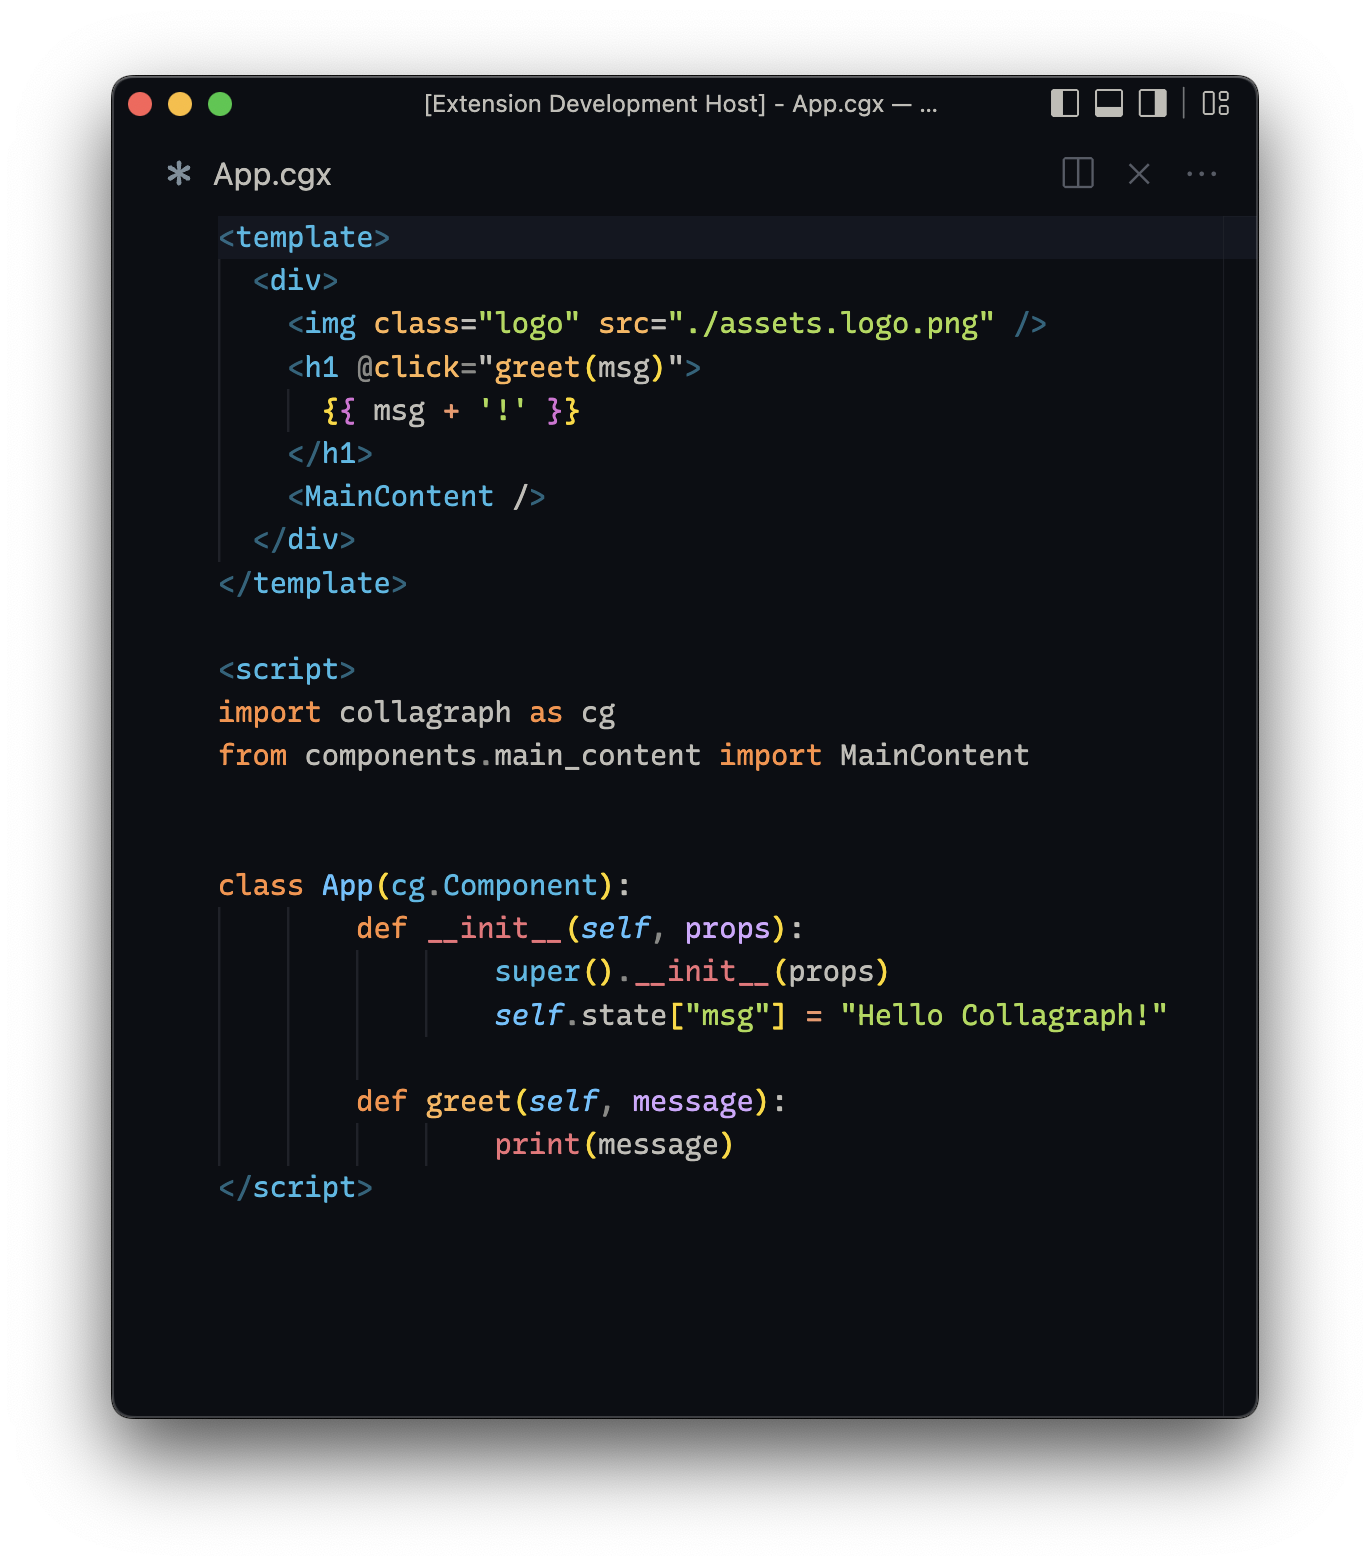
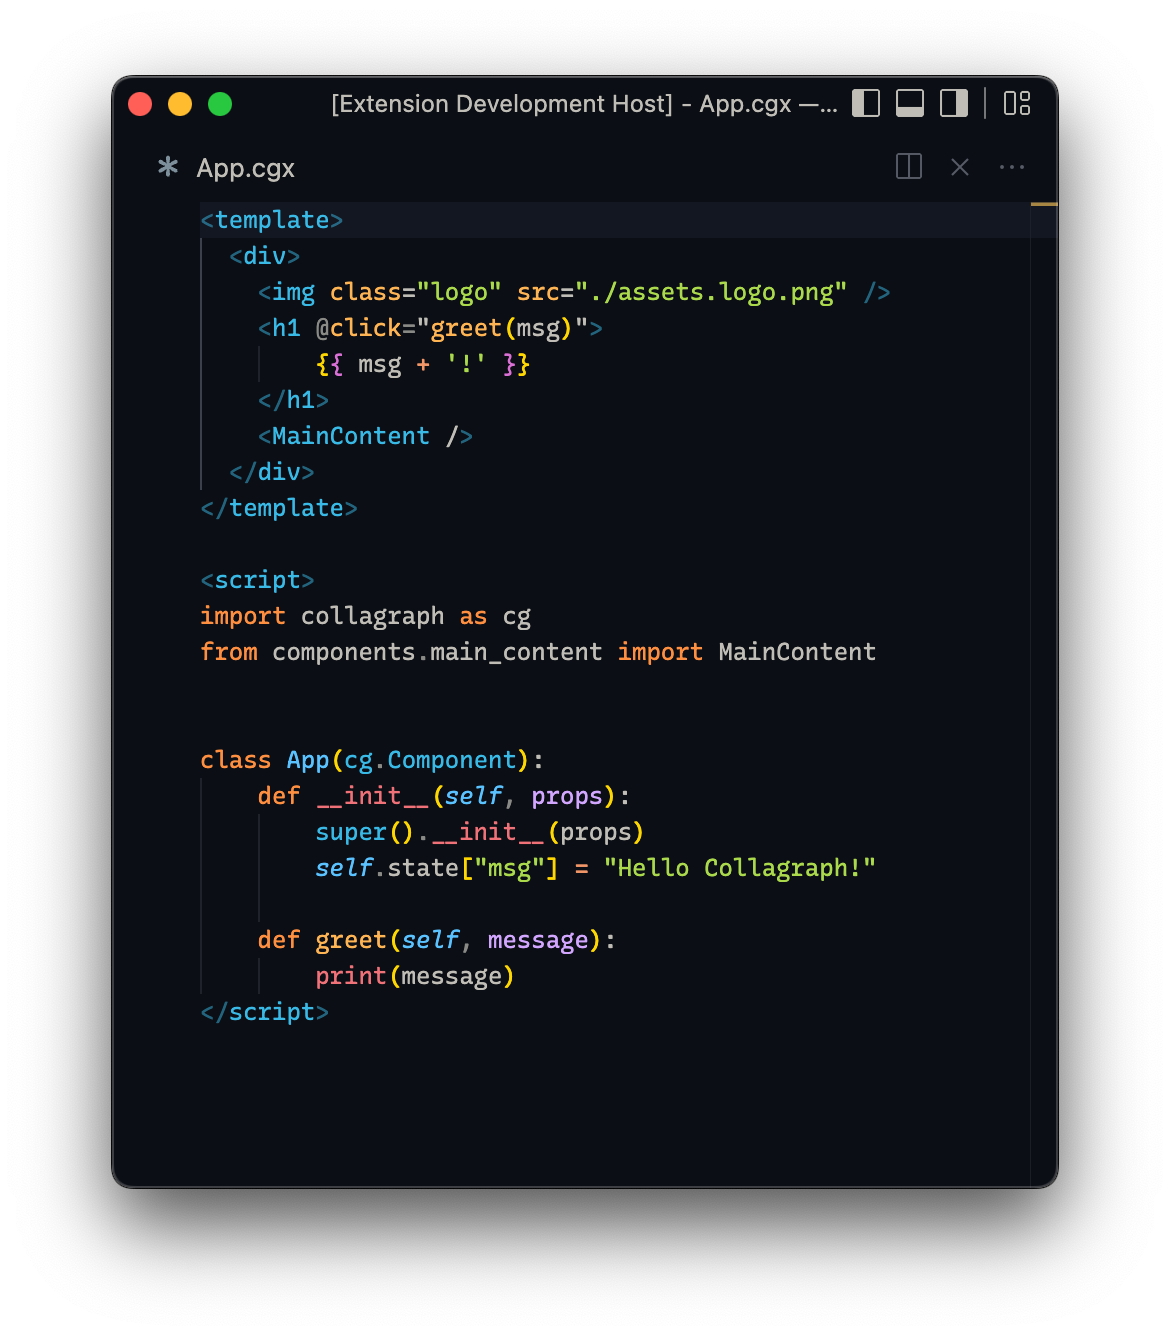
Update screenshot in README

Changed region(s): [[0.0615, 0.0307, 0.9538, 0.9513], [0.1538, 0.5524, 0.8308, 0.7672]]

diff --git a/README.md b/README.md
@@ -6,7 +6,7 @@ A VSCode extension that adds syntax highlighting for Collagraph single file comp
 ## Features
 
 <p align="center">
-  <img width="685px" src="https://raw.githubusercontent.com/fork-tongue/cgx-syntax-highlight-vscode/main/samples/screenshot.png">
+  <img width="585px" src="https://raw.githubusercontent.com/fork-tongue/cgx-syntax-highlight-vscode/main/samples/screenshot.png">
 </p>
 
 
